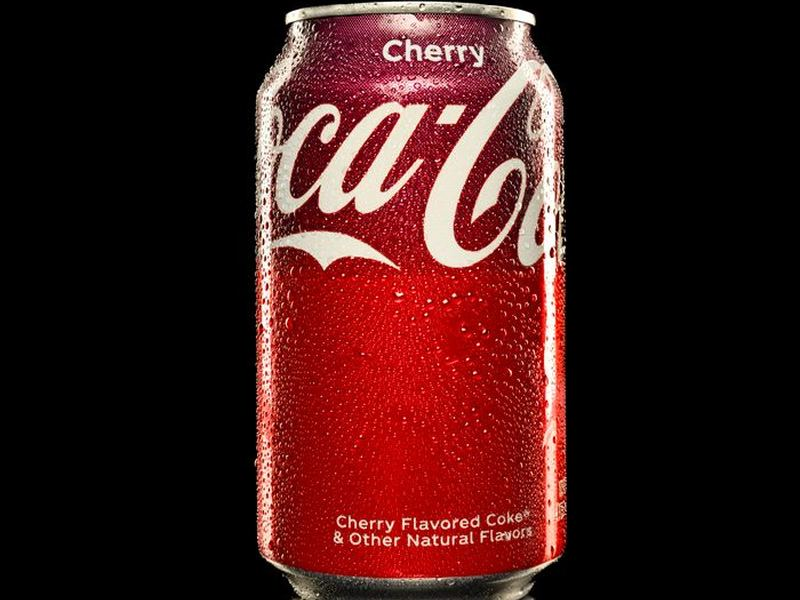
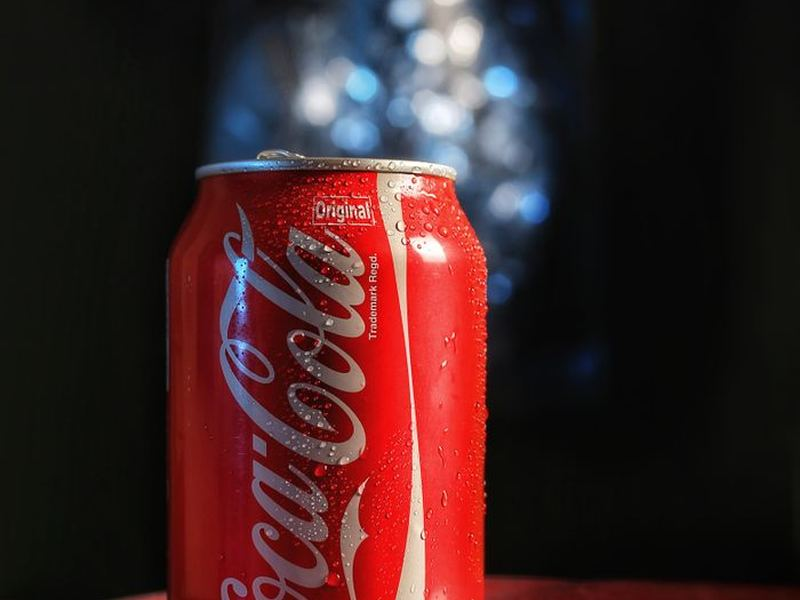
feat: troca de novo a foto do refrigerante por outra lata de Coca-Cola
Dessa vez com bastante gota de condensacao e fundo escuro com luzes
desfocadas, a pedido do usuario.

diff --git a/frontend/images/seed/CREDITS.md b/frontend/images/seed/CREDITS.md
@@ -13,7 +13,7 @@ mantidos por transparência acadêmica, não por obrigação de licença.
 | `x-vegetariano.jpg` | [Burger With Green Leafy Vegetable and Cheese on Black Plate](https://www.pexels.com/photo/burger-with-green-leafy-vegetable-and-cheese-on-black-plate-1199958/) | Valeria Boltneva |
 | `batata-frita.jpg` | [Close Up Photo of French Fries](https://www.pexels.com/photo/close-up-photo-of-french-fries-4109234/) | Polina Tankilevitch |
 | `onion-rings.jpg` | [Crispy Onion Rings in Restaurant Setting](https://www.pexels.com/photo/crispy-onion-rings-in-restaurant-setting-37358770/) | Nancy Pasel |
-| `refrigerante.jpg` | [Cherry Flavored Coke Can with Droplets on Black Background](https://www.pexels.com/photo/cherry-flavored-coke-can-with-droplets-on-black-background-31966524/) | Christopher Welsch Leveroni |
+| `refrigerante.jpg` | [A Can of Coca-Cola](https://www.pexels.com/photo/a-can-of-coca-cola-17236593/) | Ata Yarahmadi |
 | `suco.jpg` | [Orange Juice in Clear Plastic Glass](https://www.pexels.com/photo/orange-juice-in-clear-plastic-glass-6416553/) | Charlotte May |
 
 `placeholder.svg` continua sendo uma ilustração própria (sem foto associada), usada
